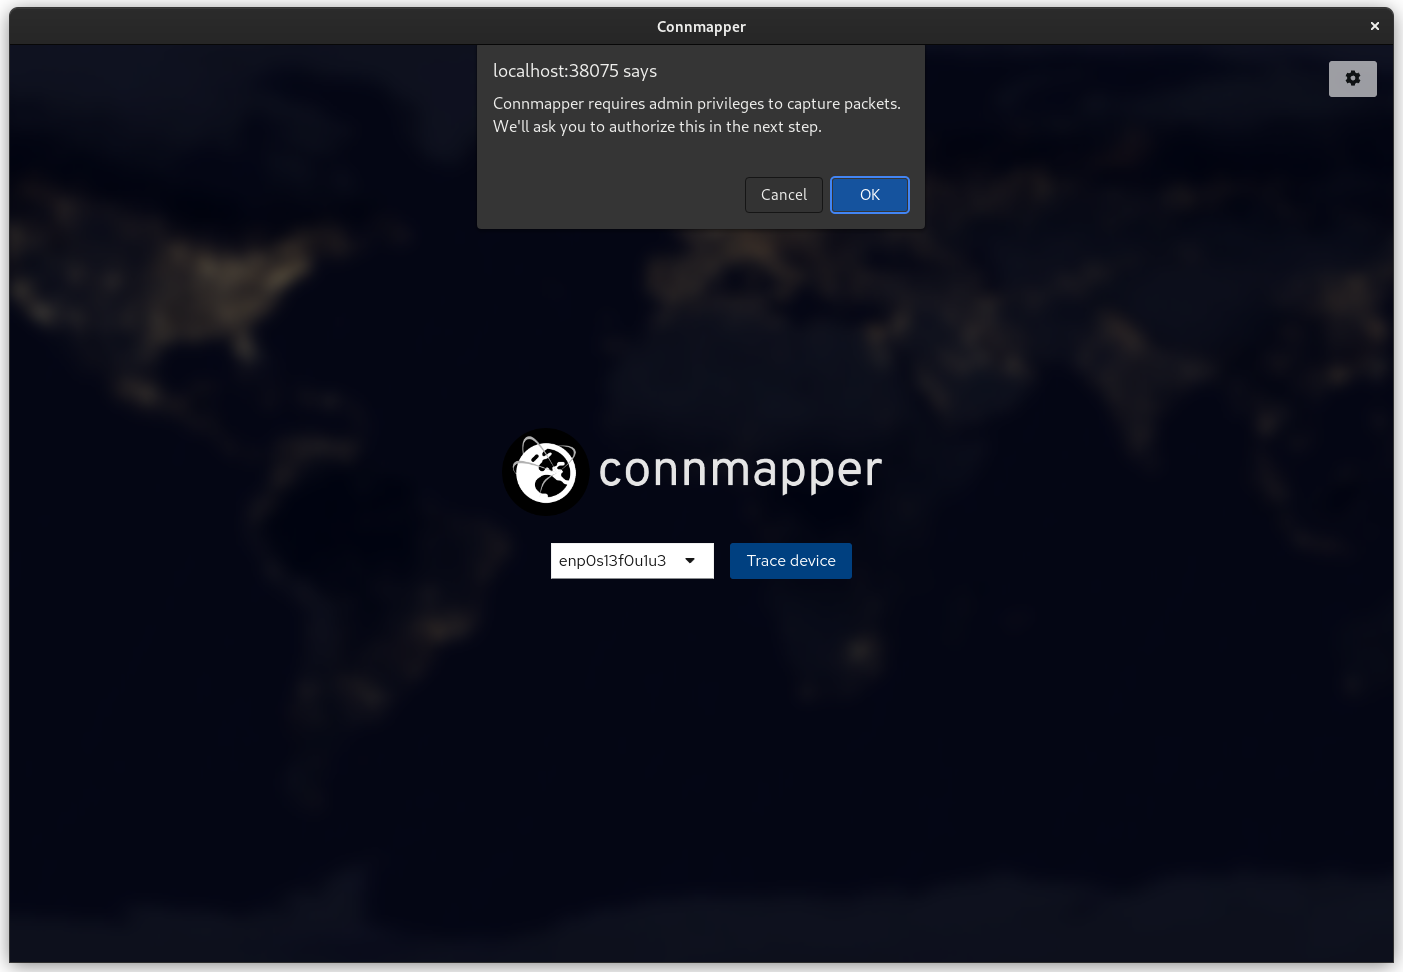
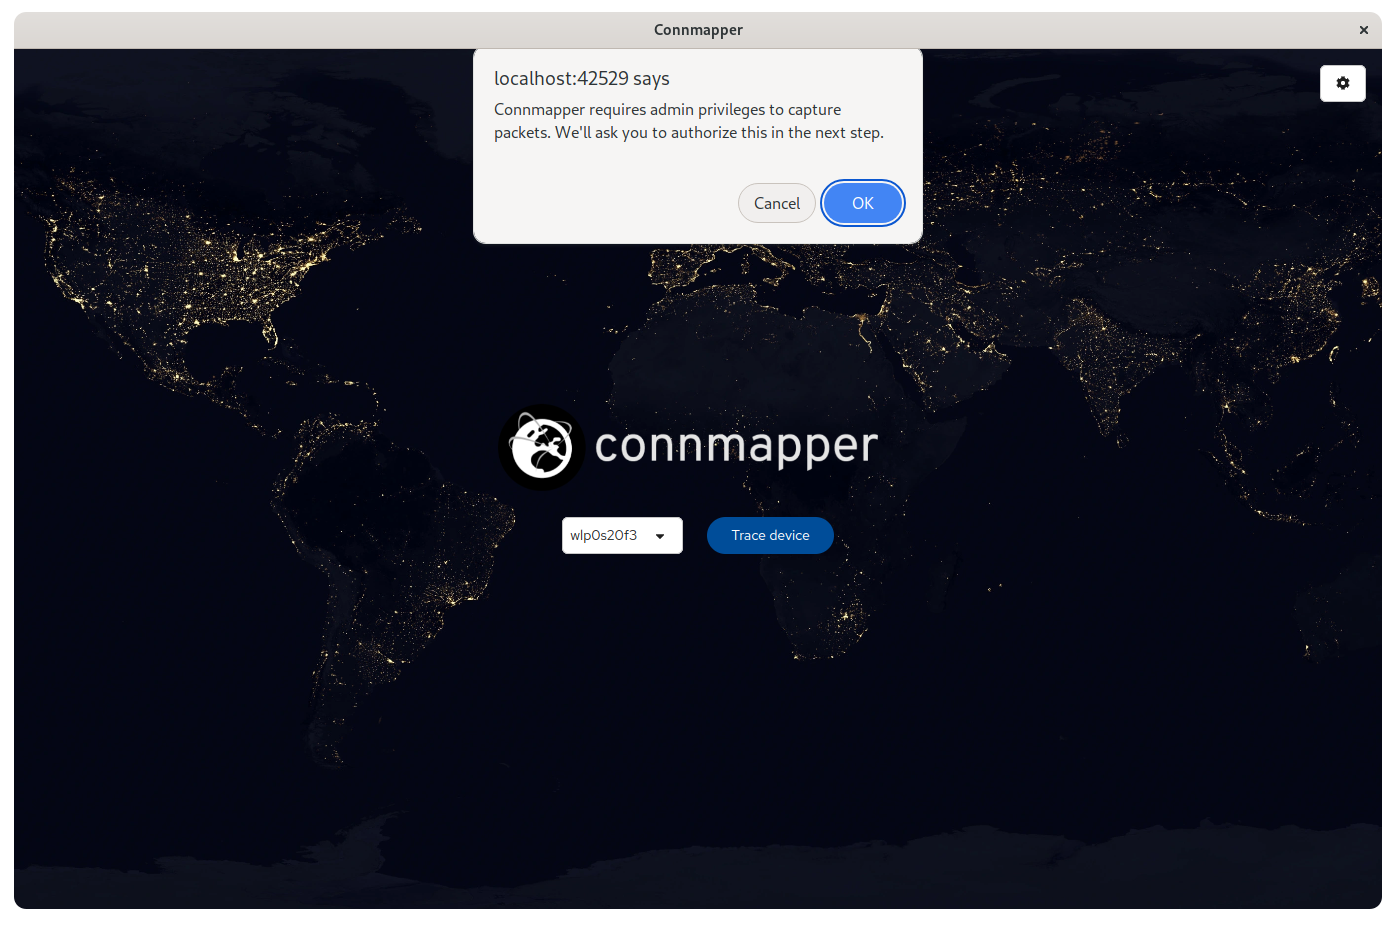
docs: Add new screenshots and enable Cyberpunk mode

diff --git a/README.md b/README.md
@@ -68,7 +68,7 @@ Here you can also download the collected data as a CSV file for further analysis
 
 ### Settings
 
-You can open the settings through the settings button in the top right; here you can configure many aspects of the application such as cache sizes or polling intervals:
+You can open the settings through the settings button in the top right; here you can configure many aspects of the application such as cache sizes or polling intervals (and enable "Cyberpunk mode" as an alternative theme):
 
 ![A screenshot of the settings dialog](./docs/screenshot-settings.png)
 
